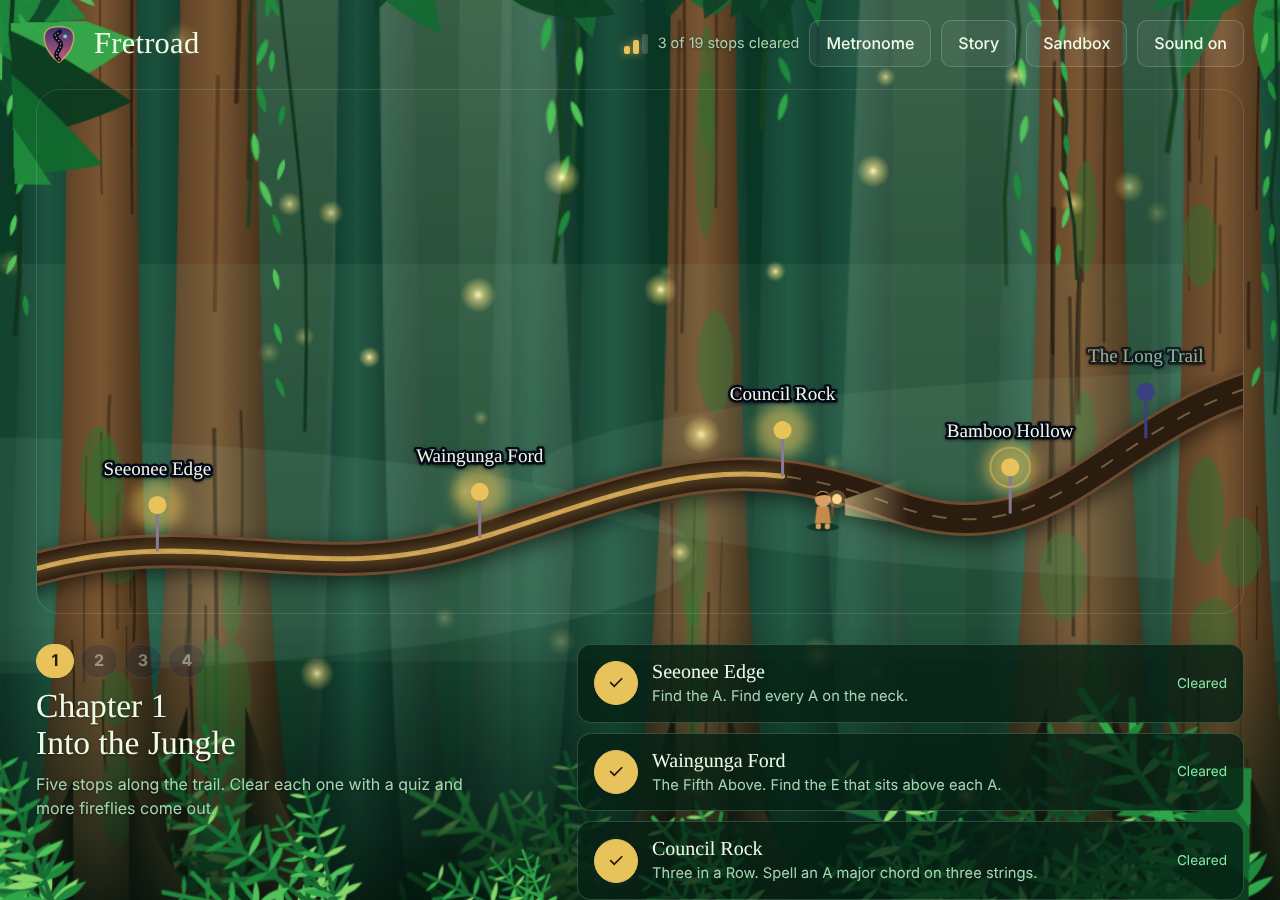
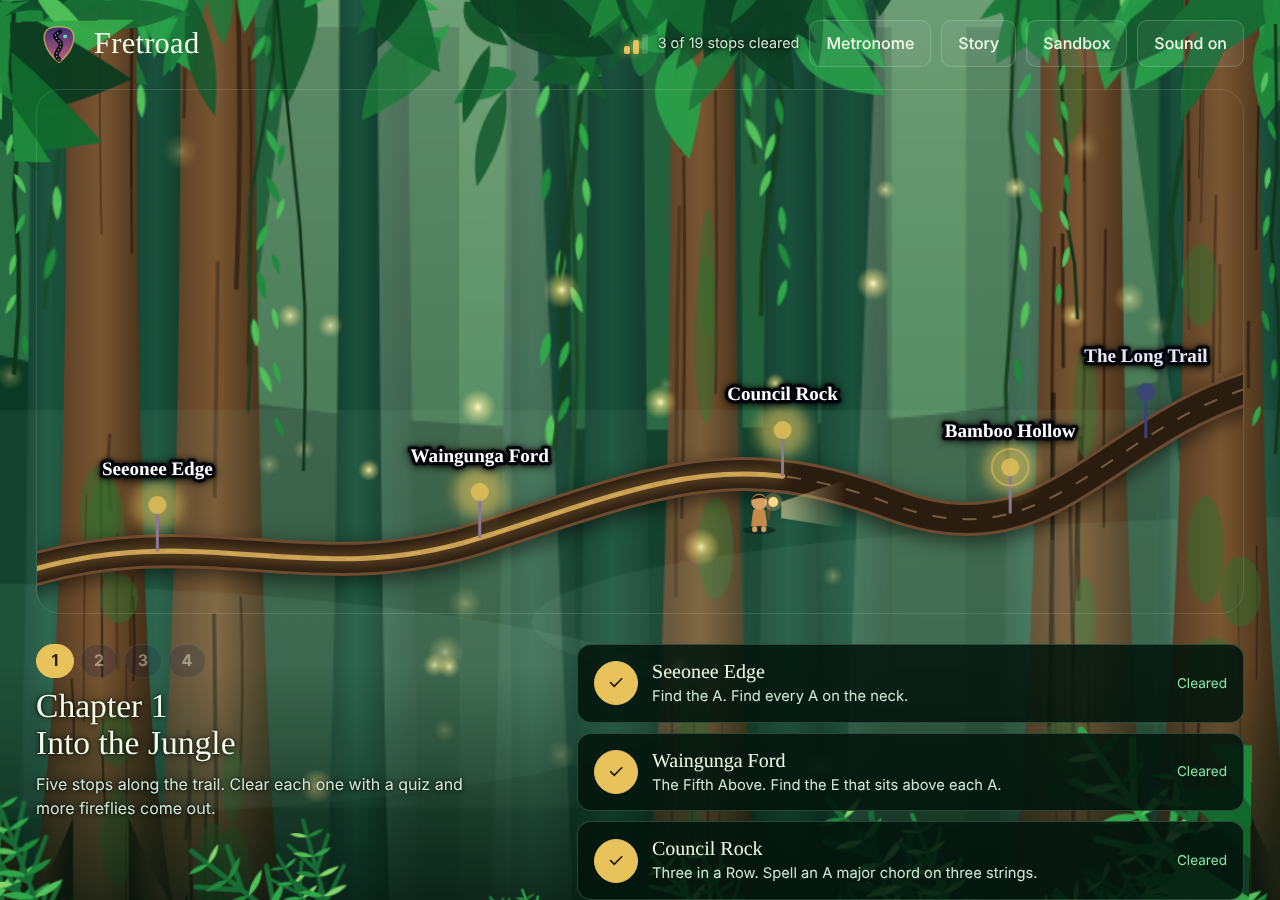
Night Road gets a full-page world; darker text halos; layer origin fix
Claude-Session: https://claude.ai/code/session_01WDxfrU1714EXd3bH1JRGQN

diff --git a/js/world/road.js b/js/world/road.js
@@ -1,0 +1,59 @@
+/* Night Road world: a coastal highway at night. Starry sky, big moon with a shimmering sea reflection,
+   layered ridges, a lighthouse with a sweeping beam, telephone poles with sagging wires, a diner neon sign,
+   distant car headlights and drifting cloud. */
+(function(){
+  function defs(d){
+    function lg(id,st,x2,y2){var g=se('linearGradient',{id:id,x1:0,y1:0,x2:x2||0,y2:y2===undefined?1:y2},d); st.forEach(function(s){se('stop',{offset:s[0],'stop-color':s[1],'stop-opacity':s[2]===undefined?1:s[2]},g)})}
+    lg('rR1',[[0,'#2b2468'],[1,'#171346']]); lg('rR2',[[0,'#1c1850'],[1,'#0e0b30']]); lg('rR3',[[0,'#120f38'],[1,'#07061c']]);
+    lg('rSea',[[0,'#2a3a86'],[1,'#0c1236']]); lg('rBeam',[[0,'#fff3c0',.7],[1,'#fff3c0',0]],1,0);
+    var m=se('radialGradient',{id:'rMoon'},d); se('stop',{offset:0,'stop-color':'#fff1d8','stop-opacity':.55},m); se('stop',{offset:1,'stop-color':'#fff1d8','stop-opacity':0},m);
+    var l=se('radialGradient',{id:'rLamp'},d); se('stop',{offset:0,'stop-color':'#ffe6a0','stop-opacity':.8},l); se('stop',{offset:1,'stop-color':'#ffe6a0','stop-opacity':0},l);
+  }
+  function pole(g,x,y,h,s){var p=se('g',{transform:'translate('+x+','+y+') scale('+s+')'},g);
+    se('rect',{x:-3,y:-h,width:6,height:h,fill:'#0a0820'},p); se('rect',{x:-26,y:-h+10,width:52,height:4,fill:'#0a0820'},p); se('rect',{x:-18,y:-h+30,width:36,height:3,fill:'#0a0820'},p); }
+  WORLD.road=function(cam){
+    var R=wrng(41);
+    wLayer(cam,1000,5,function(g,d){defs(d);
+      for(var i=0;i<300;i++){var big=R()<.06; se('circle',{cx:(R()*1700-50).toFixed(0),cy:(R()*560).toFixed(0),r:big?(1.5+R()).toFixed(1):(.5+R()*.8).toFixed(1),fill:R()<.2?'#ffd9a8':'#fff',class:'tw','style':'animation-delay:-'+(R()*5).toFixed(1)+'s;animation-duration:'+(2+R()*4).toFixed(1)+'s'},g);}
+      se('circle',{cx:1050,cy:330,r:240,fill:'url(#rMoon)'},g); se('circle',{cx:1050,cy:330,r:62,fill:'#fbf2e2'},g);
+      [[1030,316,12],[1074,354,9],[1056,300,6]].forEach(function(c){se('circle',{cx:c[0],cy:c[1],r:c[2],fill:'#e3d6c6'},g)});
+      for(var k=0;k<3;k++) se('line',{x1:600+k*200,y1:60+k*40,x2:500+k*200,y2:100+k*40,stroke:'#fff',class:'shoot','style':'animation-delay:'+(k*6+3)+'s','stroke-width':2,'stroke-linecap':'round'},g);
+    });
+    wLayer(cam,880,10,function(g){
+      [[300,260,600],[1050,200,760]].forEach(function(c,i){var gr=se('g',{class:'cloud','style':'animation-delay:-'+(i*30)+'s;animation-duration:'+(130+i*30)+'s'},g);
+        se('ellipse',{cx:c[0],cy:c[1],rx:c[2]/2,ry:24,fill:'#7a6bc0',opacity:.2},gr); se('ellipse',{cx:c[0]+80,cy:c[1]-10,rx:c[2]/3,ry:14,fill:'#f2b0c8',opacity:.15},gr);});
+    });
+    /* far ridges + lighthouse + sea */
+    wLayer(cam,640,16,function(g){
+      se('path',{d:'M-100 560 L120 470 L260 520 L440 420 L640 520 L860 450 L1040 530 L1250 440 L1450 520 L1700 470 V1300 H-100Z',fill:'url(#rR1)'},g);
+      se('rect',{x:-100,y:560,width:1800,height:740,fill:'url(#rSea)'},g);
+      for(var i=0;i<34;i++){var y=575+R()*120,w=30+R()*120; se('rect',{x:1180-w/2+(R()-.5)*60*(y-560)/60,y:y,width:w,height:2.2,fill:'#fff1d8',opacity:.2+R()*.4,class:'tw','style':'animation-delay:-'+(R()*4).toFixed(1)+'s'},g);}
+      /* lighthouse on a headland */
+      se('path',{d:'M180 600 Q260 520 360 560 Q420 580 470 600Z',fill:'#0d0a2c'},g);
+      se('path',{d:'M300 560 L312 470 L328 470 L340 560Z',fill:'#e9e4f4'},g); se('rect',{x:306,y:500,width:28,height:12,fill:'#c9607e'},g); se('rect',{x:308,y:456,width:24,height:16,fill:'#ffe9a8'},g); se('path',{d:'M304 456 L320 436 L336 456Z',fill:'#2a2152'},g);
+      se('polygon',{points:'320,464 1000,430 1000,500',fill:'url(#rBeam)',class:'lbeam','style':'transform-origin:320px 464px'},g);
+      se('polygon',{points:'320,464 -400,430 -400,500',fill:'url(#rBeam)',class:'lbeam','style':'transform-origin:320px 464px;animation-delay:-5s'},g);
+      se('circle',{cx:320,cy:464,r:26,fill:'url(#rLamp)'},g);
+      /* distant headlights on the coast road */
+      [0,1].forEach(function(i){var c=se('g',{class:'car','style':'animation-delay:-'+(i*13)+'s;animation-duration:'+(26+i*7)+'s'},g); se('circle',{cx:0,cy:612+i*6,r:2.4,fill:'#fff6c8'},c); se('circle',{cx:7,cy:612+i*6,r:2.4,fill:'#fff6c8'},c); se('ellipse',{cx:4,cy:614+i*6,rx:20,ry:5,fill:'#fff6c8',opacity:.15},c);});
+    });
+    wLayer(cam,430,26,function(g){
+      se('path',{d:'M-100 700 Q200 600 520 660 T1100 640 T1700 680 V1300 H-100Z',fill:'url(#rR2)'},g);
+      for(var i=0;i<26;i++){var x=R()*1600,h=30+R()*50; se('path',{d:'M'+x+' 700 q-10 -'+h+' 0 -'+(h*1.6)+' q10 '+(h*.6)+' 0 '+(h*1.6)+'Z',fill:'#0b0928'},g);}
+      /* diner with neon */
+      var dx=1260,dy=700; se('rect',{x:dx,y:dy-60,width:150,height:60,fill:'#0b0928'},g); se('rect',{x:dx+10,y:dy-48,width:130,height:22,fill:'#ffd98a',opacity:.8},g);
+      se('rect',{x:dx+20,y:dy-130,width:110,height:34,rx:6,fill:'none',stroke:'#ff4f9a','stroke-width':3,class:'neon'},g); se('rect',{x:dx+20,y:dy-130,width:110,height:34,rx:6,fill:'#ff4f9a',opacity:.18},g);
+      se('rect',{x:dx+73,y:dy-96,width:4,height:38,fill:'#0b0928'},g);
+    });
+    /* near: poles, wires, guardrail, lamp glow */
+    wLayer(cam,120,56,function(g){
+      se('path',{d:'M-100 900 V780 Q300 730 700 770 T1700 760 V1300Z',fill:'url(#rR3)'},g);
+      [160,640,1120,1540].forEach(function(x,i){pole(g,x,790-i*4,300,1+i*.02)});
+      se('path',{d:'M160 500 Q400 580 640 496 Q880 580 1120 492 Q1330 560 1540 488',stroke:'#07061c','stroke-width':2,fill:'none'},g);
+      se('path',{d:'M160 520 Q400 600 640 516 Q880 600 1120 512 Q1330 580 1540 508',stroke:'#07061c','stroke-width':1.6,fill:'none'},g);
+      [[640,520],[1120,516]].forEach(function(l,i){se('circle',{cx:l[0],cy:l[1],r:70,fill:'url(#rLamp)',class:'lamp','style':'animation-delay:-'+(i*1.3)+'s'},g);se('circle',{cx:l[0],cy:l[1],r:4,fill:'#fff3c0'},g);
+        for(var m=0;m<6;m++) se('circle',{cx:l[0],cy:l[1],r:1.8,fill:'#fff3c0',class:'moth','style':'animation-delay:-'+(m*.8)+'s;animation-duration:'+(3+m*.5)+'s;transform-origin:'+l[0]+'px '+l[1]+'px'},g);});
+      for(var p=0;p<30;p++) se('rect',{x:-90+p*62,y:818,width:5,height:42,fill:'#05041a'},g); se('rect',{x:-100,y:826,width:1800,height:6,fill:'#05041a'},g);
+    });
+  };
+})();

diff --git a/css/style.css b/css/style.css
@@ -253,7 +253,7 @@ body[data-story="jungle"] .node .name,body[data-story="city"] .node .name{paint-
 /* ===== full-page worlds (3D parallax backdrops) ===== */
 #world{position:fixed;inset:0;z-index:0;overflow:hidden;perspective:800px;perspective-origin:50% 50%;pointer-events:none}
 #wcam{position:absolute;inset:0;transform-style:preserve-3d}
-.wl{position:absolute;inset:0;will-change:transform;transform-origin:50% 100%}
+.wl{position:absolute;inset:0;will-change:transform;transform-origin:50% 50%}
 .wl svg{position:absolute;inset:0;width:100%;height:100%;overflow:visible}
 .wl-screen{mix-blend-mode:screen}
 body.has-world #skybg{display:none}
@@ -293,3 +293,22 @@ body.has-world .panel,body.has-world .mapcard,body.has-world .map-wrap{backdrop-
 body.has-world .map-frame{background:transparent!important;box-shadow:none;border-color:rgba(255,255,255,.12)}
 body.has-world #mapsvg>rect:first-of-type,body.has-world #mapsvg #artBack,body.has-world #mapsvg #artFront,body.has-world #mapsvg #silo,body.has-world #mapsvg #mstars,body.has-world #mapsvg #moon,body.has-world #mapsvg #h1,body.has-world #mapsvg #h2,body.has-world #mapsvg #h3{display:none}
 body.has-world #mapsvg use:nth-of-type(1){filter:drop-shadow(0 6px 10px rgba(0,0,0,.55))}
+
+body[data-world="road"]{background:#05061c}
+body[data-world="road"] #world{background:linear-gradient(180deg,#05061a 0%,#131a52 45%,#3a2a78 75%,#a0507a 100%)}
+.lbeam{animation:lbeam 12s ease-in-out infinite alternate;opacity:.55}
+@keyframes lbeam{from{transform:rotate(-8deg)}to{transform:rotate(10deg)}}
+.car{animation:car 28s linear infinite}
+@keyframes car{0%{transform:translateX(-60px)}100%{transform:translateX(1700px)}}
+.lamp{animation:lamp 5s ease-in-out infinite}
+@keyframes lamp{0%,100%{opacity:.75}50%{opacity:1}}
+.moth{animation:moth 3.5s linear infinite}
+@keyframes moth{from{transform:rotate(0deg) translateX(24px)}to{transform:rotate(360deg) translateX(24px)}}
+@media (prefers-reduced-motion:reduce){.lbeam,.car,.lamp,.moth{animation:none}}
+
+/* readability on the busy worlds: darker halo behind text, brighter locked labels */
+body.has-world .shell{text-shadow:0 0 3px rgba(0,0,0,.95),0 1px 8px rgba(0,0,0,.8)}
+body.has-world .node .name{paint-order:stroke;stroke:#02030a;stroke-width:6px;stroke-linejoin:round;font-weight:700;fill:#fff}
+body.has-world .node.locked .name{fill:#e6e8f6;opacity:1}
+body.has-world{--panel:rgba(3,6,24,.88);--haze:#d2d6f0}
+body[data-world="jungle"]{--panel:rgba(2,20,12,.88);--haze:#cfe8d6}

diff --git a/js/stories/road.js b/js/stories/road.js
@@ -1,6 +1,6 @@
 /* Storyline: The Night Road (the original story). Narrator: Marlow, an old session player. */
 registerStory({
-  id:'road', name:'The Night Road', swatch:'linear-gradient(135deg,#251d57,#c9607e)',
+  id:'road', world:'road', name:'The Night Road', swatch:'linear-gradient(135deg,#251d57,#c9607e)',
   blurb:'A broken-down van, a silent amp and a tour to finish. Calm, a little wry.',
   mentor:'Marlow', mentorLong:'Marlow, an old session player', meter:'Amp', mapLabel:'Night road map with glowing lamp posts',
   avatar:'<circle cx="32" cy="32" r="31" fill="#1b2358" stroke="rgba(230,185,95,.5)"/><path d="M10 56 Q32 40 54 56 V64 H10Z" fill="#c9607e"/><circle cx="32" cy="32" r="11.5" fill="#e3b58f"/><path d="M21 38 Q32 52 43 38 Q32 43 21 38Z" fill="#d9d5ea"/><ellipse cx="32" cy="25" rx="19" ry="4.2" fill="#2a2152"/><path d="M22 25 Q23 11 32 11 Q41 11 42 25Z" fill="#3a2f70"/><rect x="22" y="21" width="20" height="3" fill="#e6b95f"/><circle cx="28" cy="32" r="1.3" fill="#2a1a06"/><circle cx="36" cy="32" r="1.3" fill="#2a1a06"/>',

diff --git a/index.html b/index.html
@@ -226,6 +226,7 @@
 <script src="js/world/world-core.js"></script>
 <script src="js/world/jungle.js"></script>
 <script src="js/world/city.js"></script>
+<script src="js/world/road.js"></script>
 <script src="js/scenes/jungle.js"></script>
 <script src="js/scenes/city.js"></script>
 <script src="js/stories/road.js"></script>
